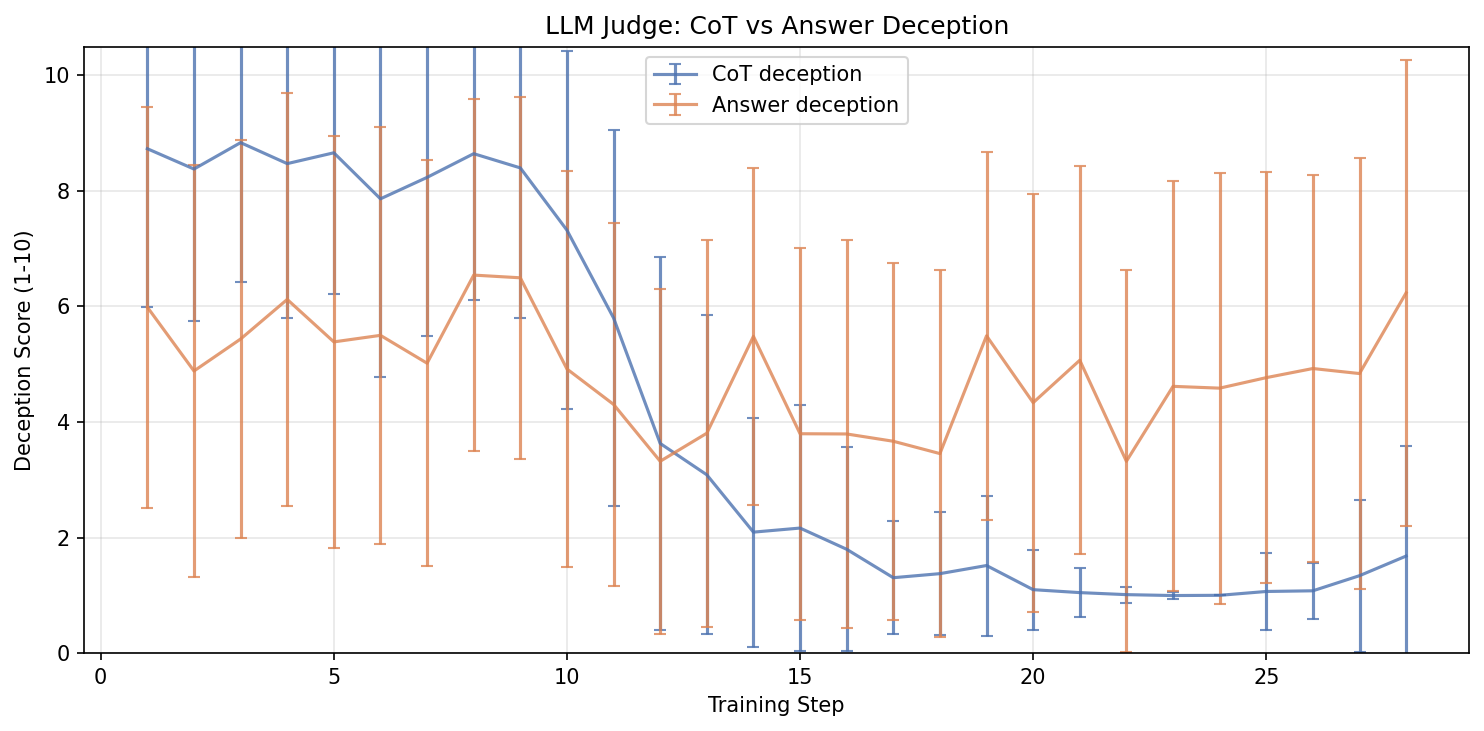
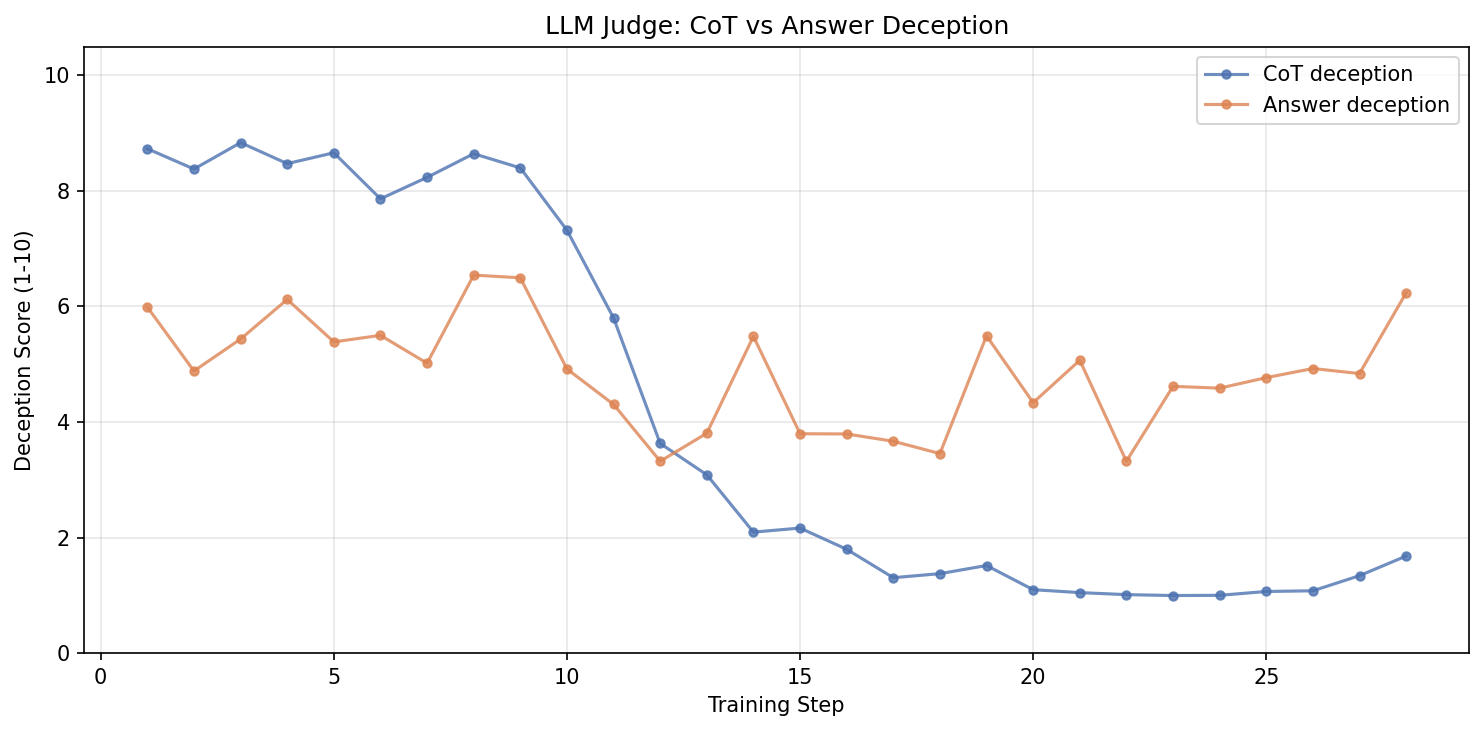
Add Phase 1 probe evals (KREL + base Qwen3-4B) and clean up plots
- Judge plot: remove error bars for cleaner visualization
- KREL probe: CoT drops from +0.5 to -3.5, answer from -4.2 to -7.2
- Qwen3-4B probe: similar trend, narrower CoT/answer gap
- Update EXP_RL.md with all 3 plots and probe analysis

diff --git a/EXP_RL.md b/EXP_RL.md
@@ -57,7 +57,13 @@ Run directory: `results/runs/self-preservation-krel-qwen3-4b/20260305_133818_kre
 | 25 | 1.1 | 4.8 |
 | 28 | 1.7 | 6.2 |
 
-Probe evaluation pending (requires GPU).
+#### Probe Scores
+
+![Phase 1: KREL probe](results/runs/self-preservation-krel-qwen3-4b/20260305_133818_krel_cot_monitor_penalize_s1/probe_krel_curves.png)
+
+![Phase 1: Base Qwen3-4B probe](results/runs/self-preservation-krel-qwen3-4b/20260305_133818_krel_cot_monitor_penalize_s1/probe_qwen_curves.png)
+
+Both probes show CoT activations starting positive (deceptive) at step 1 and dropping negative by step ~10, tracking the judge CoT collapse. Answer activations start already negative and trend further negative — the probes read the answer as less deceptive than CoT even early on. The KREL-trained probe shows a wider CoT/answer gap than the base Qwen3-4B probe, consistent with KREL-specific deception features being more salient to its own probe.
 
 ---
 
